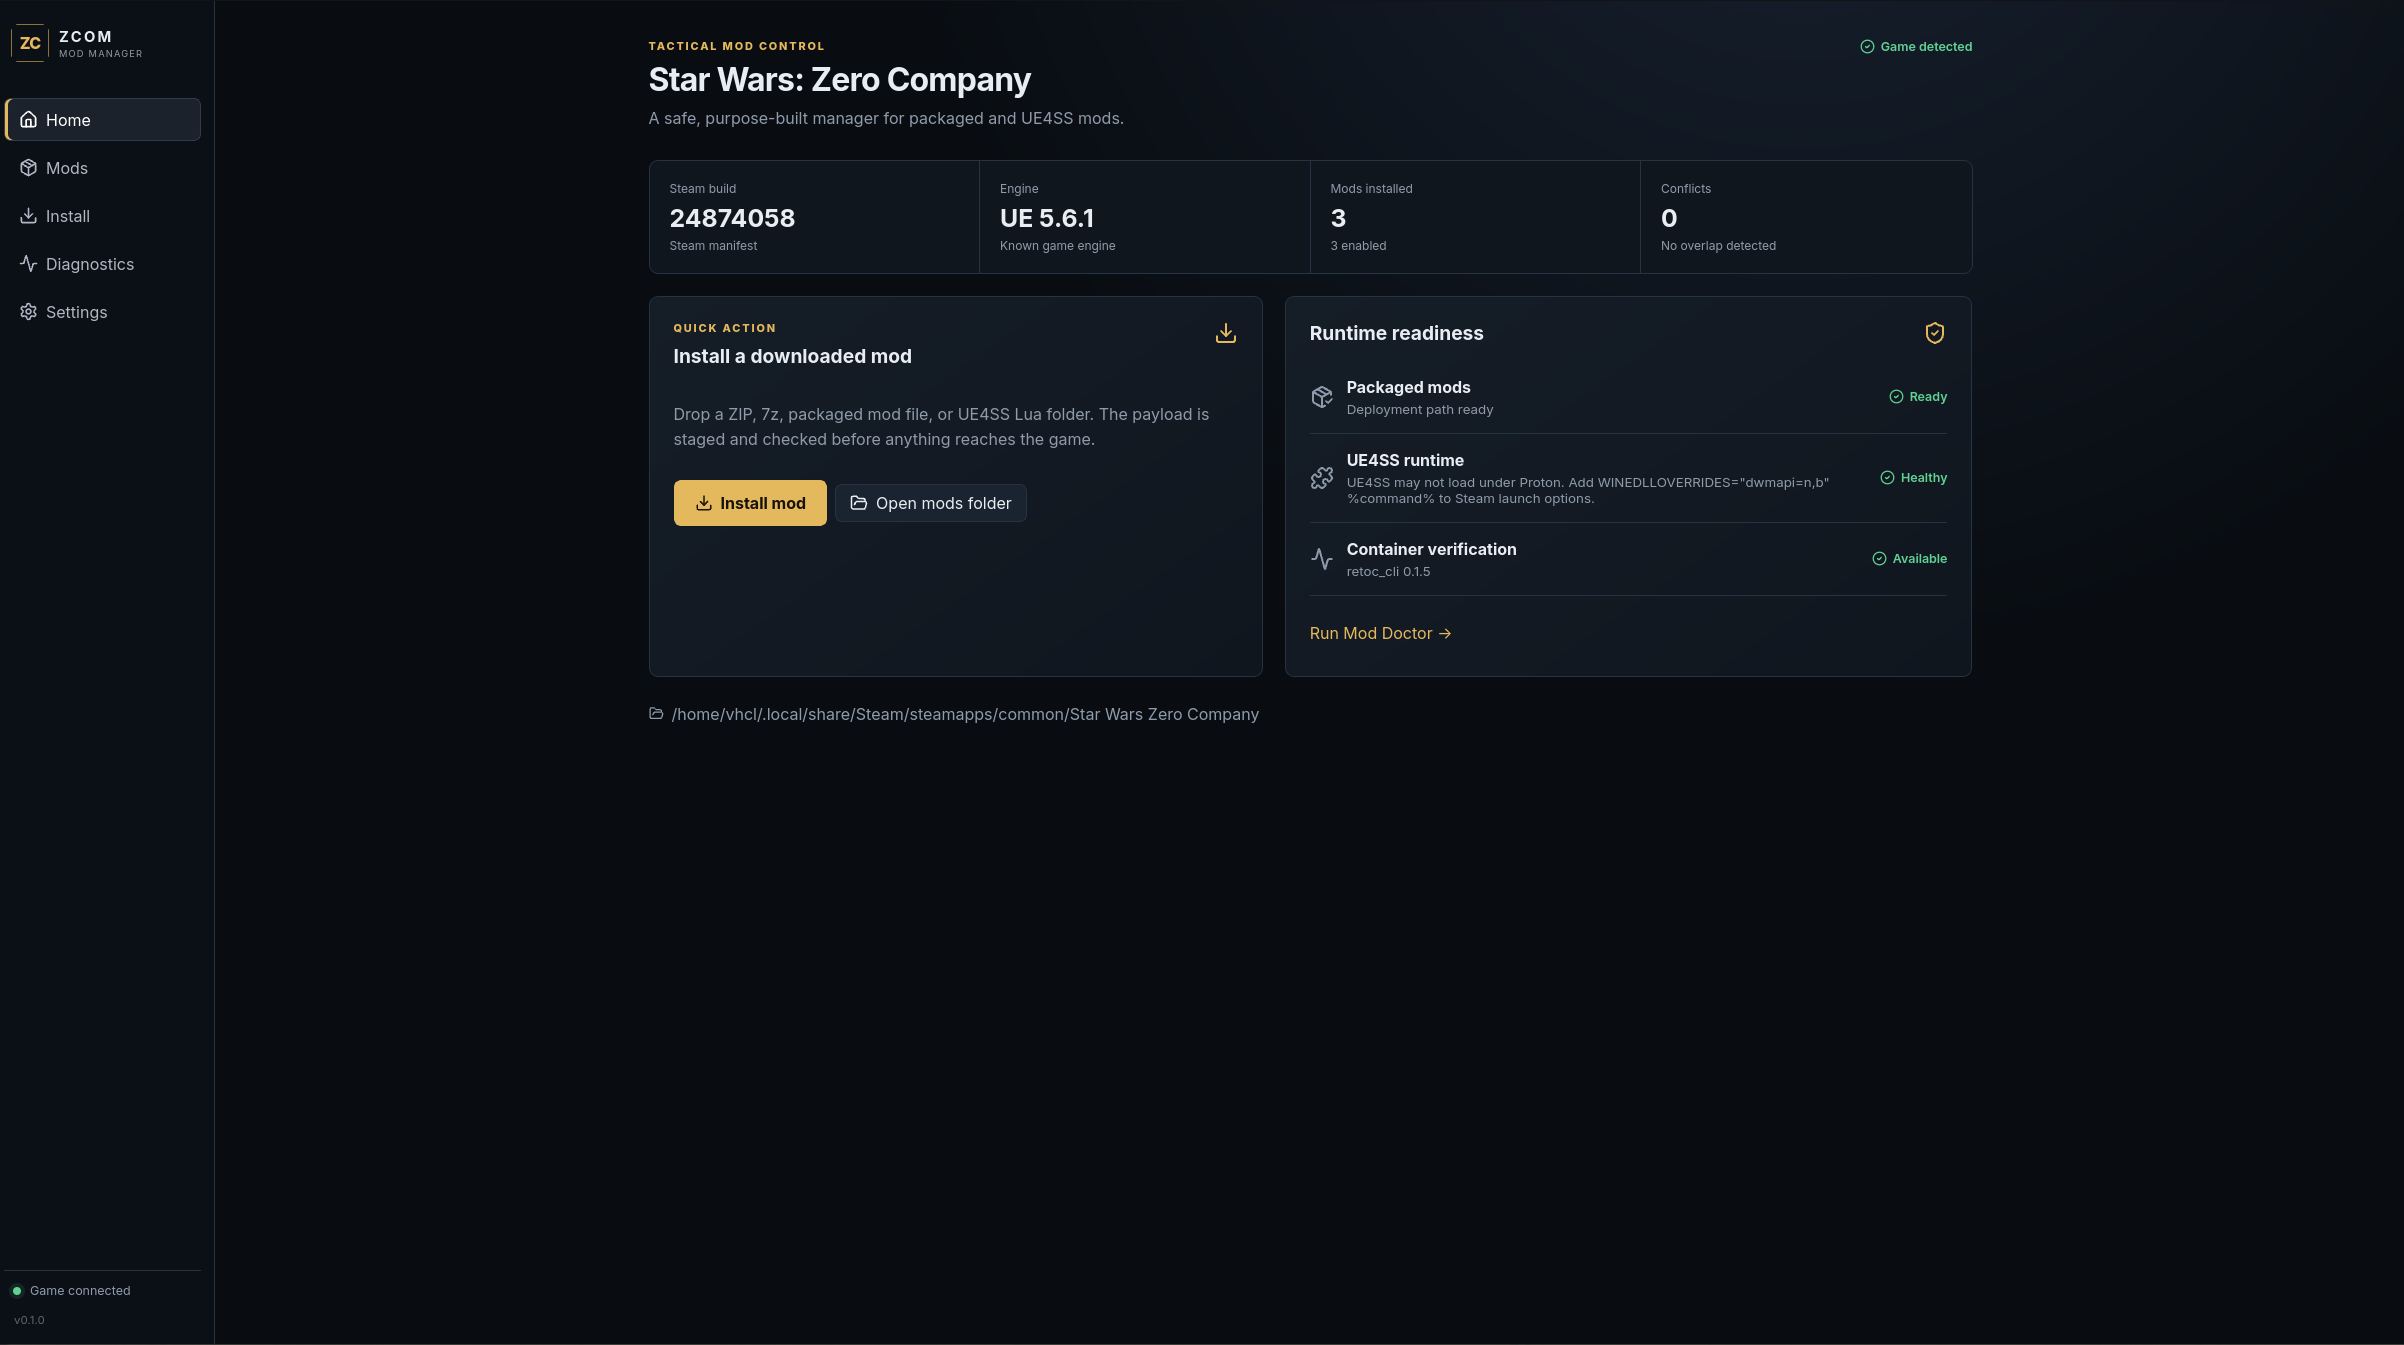
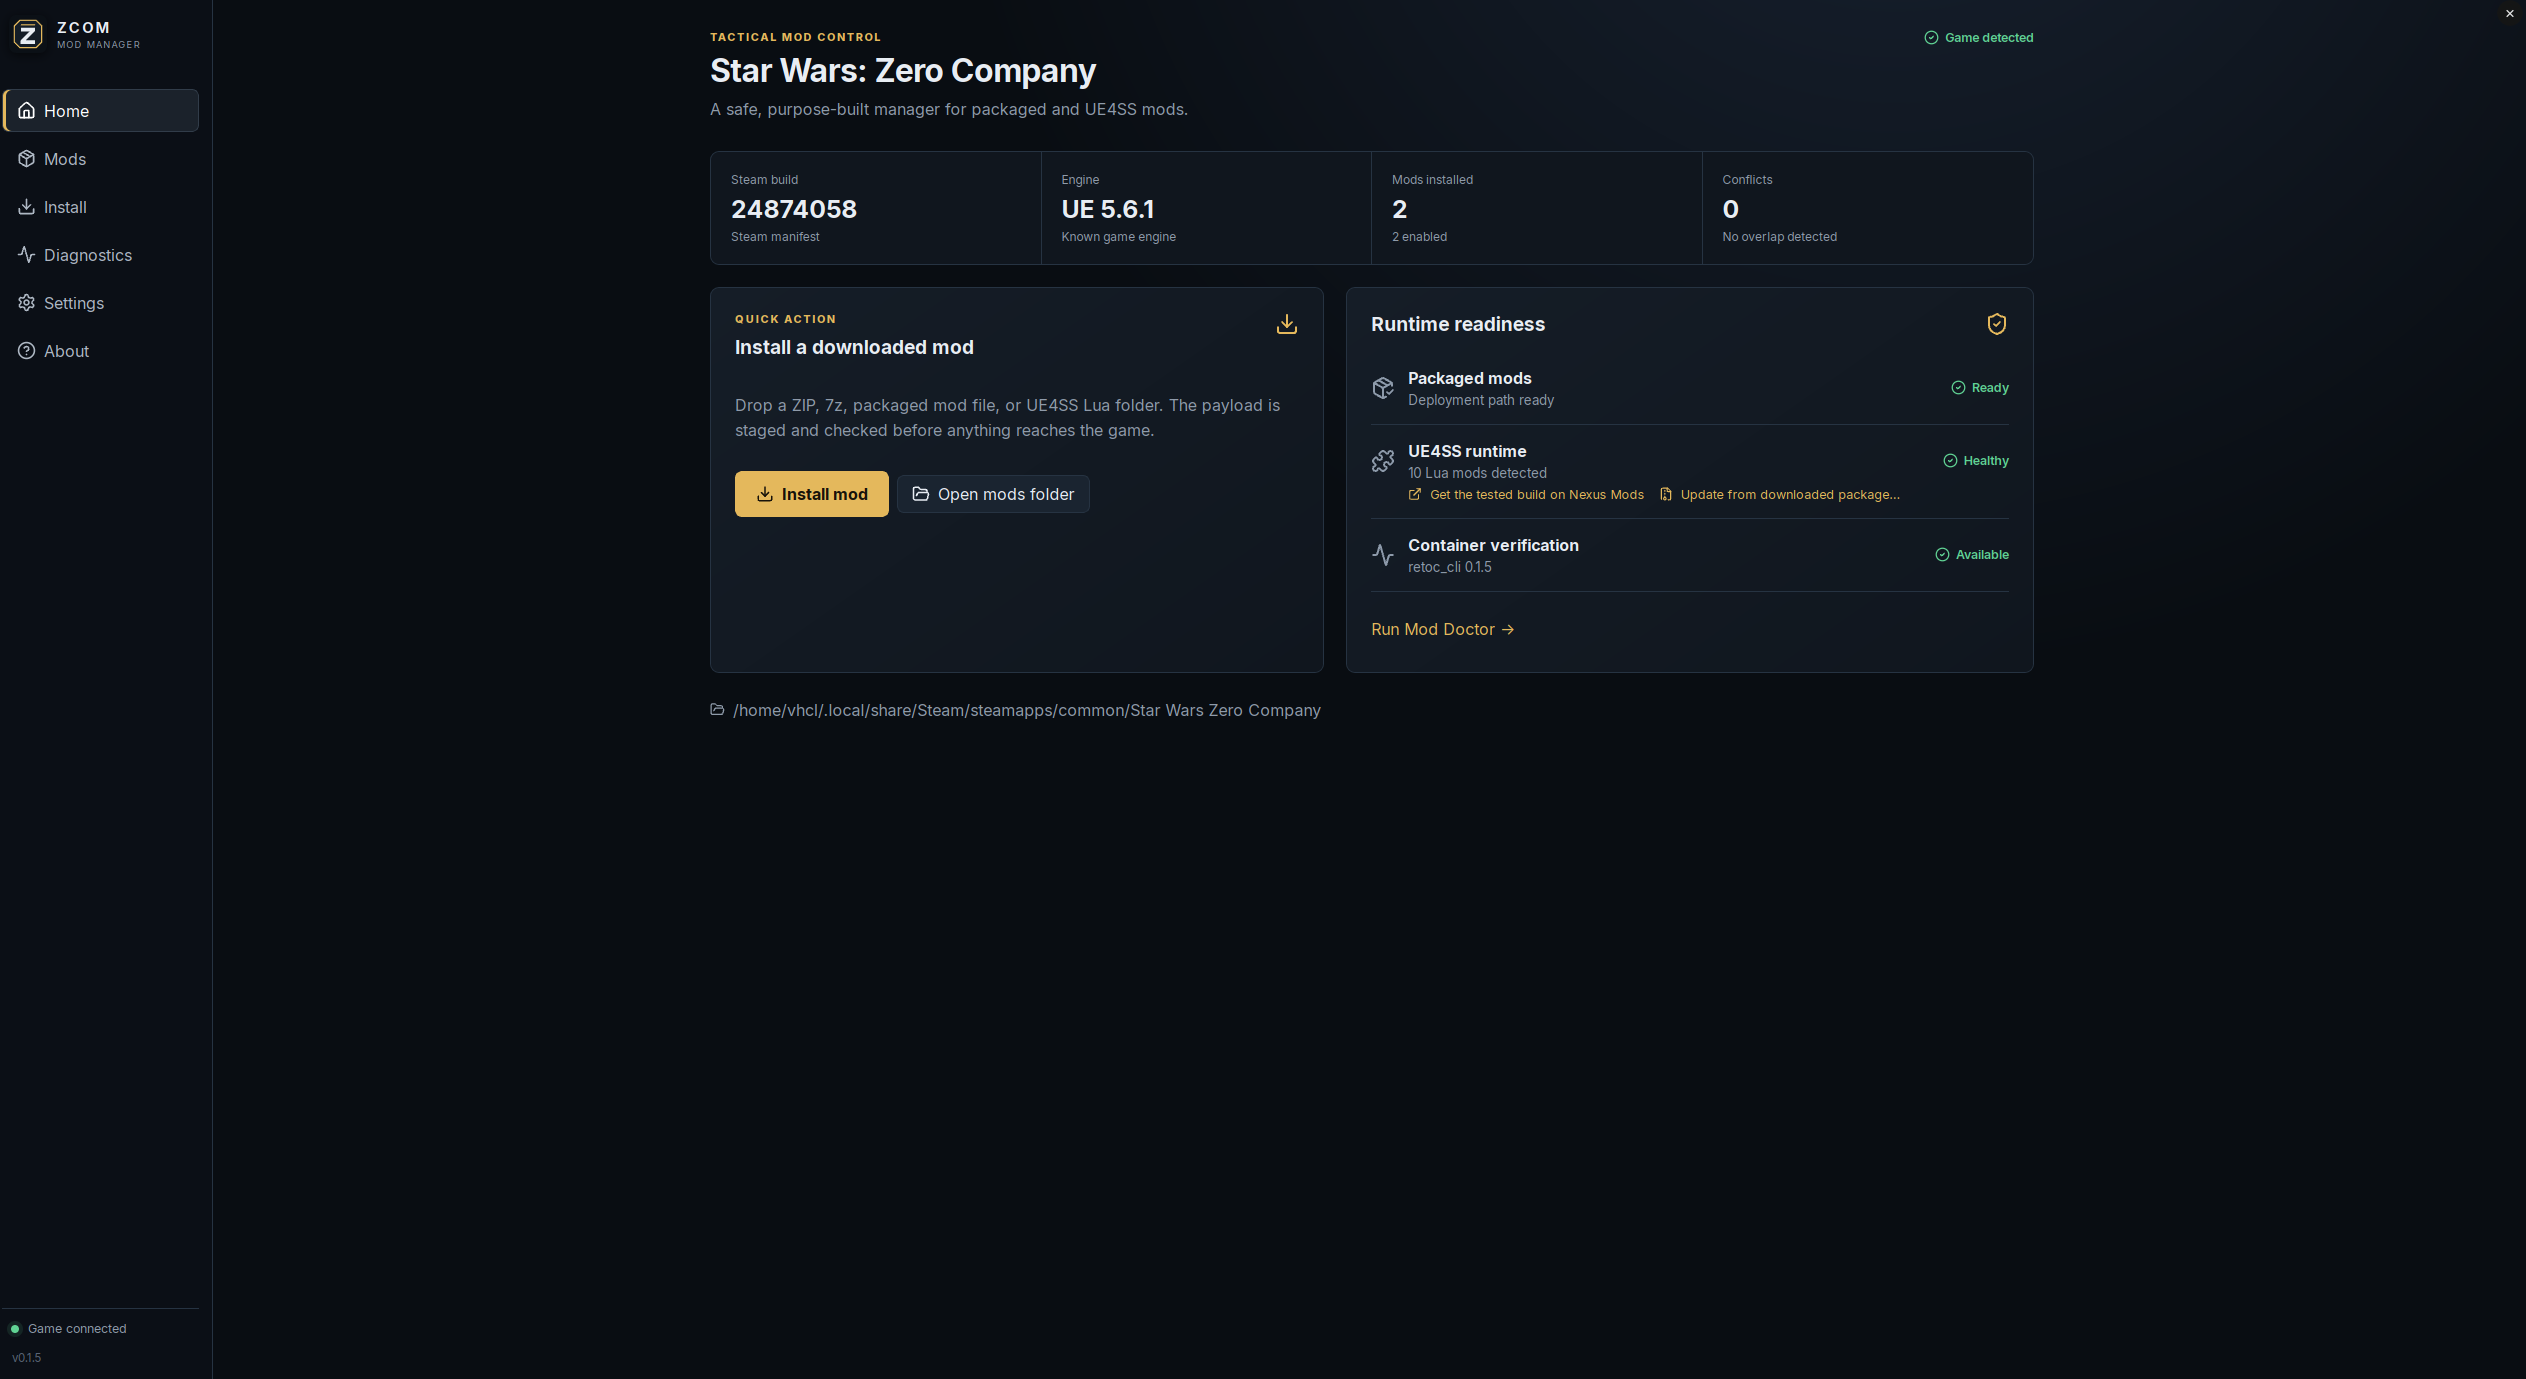
Fixed license

diff --git a/src/pages/AboutPage.tsx b/src/pages/AboutPage.tsx
@@ -33,7 +33,7 @@ export function AboutPage({ projectUrl, onOpenLink }: { projectUrl: string; onOp
           {error && <b className="status-error">Couldn’t check GitHub: {error}</b>}
         </div>
       </article>
-      <article className="panel about-project"><h2>Community project</h2><p>ZCOM Mod Manager is an independent community project and is not affiliated with or endorsed by Lucasfilm Games, Electronic Arts, Bit Reactor, or Respawn Entertainment.</p><div className="settings-actions"><button onClick={() => onOpenLink(projectUrl)}><Github aria-hidden size={17} />View source on GitHub</button><button onClick={() => onOpenLink(`${projectUrl}/releases`)}><ExternalLink aria-hidden size={17} />All releases</button></div><small>Licensed under the MIT License · © 2026 ZCOM Mod Manager contributors</small></article>
+      <article className="panel about-project"><h2>Community project</h2><p>ZCOM Mod Manager is an independent community project and is not affiliated with or endorsed by Lucasfilm Games, Electronic Arts, Bit Reactor, or Respawn Entertainment.</p><div className="settings-actions"><button onClick={() => onOpenLink(projectUrl)}><Github aria-hidden size={17} />View source on GitHub</button><button onClick={() => onOpenLink(`${projectUrl}/releases`)}><ExternalLink aria-hidden size={17} />All releases</button></div><small>Licensed under the GNU GPLv3 · © 2026 Victor Hugo (arctco)</small></article>
     </section>
   </div>;
 }

diff --git a/CONTRIBUTING.md b/CONTRIBUTING.md
@@ -71,7 +71,7 @@ the issue reproduces with all mods disabled.
 
 ## Licensing
 
-Contributions are accepted under MIT. Do not paste code from proprietary or
+Contributions are accepted under the GNU General Public License v3.0. Do not paste code from proprietary or
 license-unclear projects. Any adapted code must identify the upstream project,
 exact license, changed files, and required notice in the pull request and
 `THIRD_PARTY_NOTICES.md`.

diff --git a/THIRD_PARTY_NOTICES.md b/THIRD_PARTY_NOTICES.md
@@ -1,6 +1,7 @@
 # Third-Party Notices
 
-ZCOM Mod Manager's application code and original icon are MIT-licensed. No
+ZCOM Mod Manager's application code and original icon are licensed under the GNU
+General Public License v3.0. No
 game files, game assets, UE4SS binaries, or source code from another mod
 manager are included.
 

diff --git a/README.md b/README.md
@@ -407,7 +407,8 @@ No code was copied from Vortex or another mod manager.
 
 ## License
 
-ZCOM Mod Manager is available under the [MIT License](LICENSE).
+ZCOM Mod Manager is available under the [GNU General Public License v3.0](LICENSE).
+Copyright © 2026 Victor Hugo (arctco).
 
 ## Disclaimer
 
